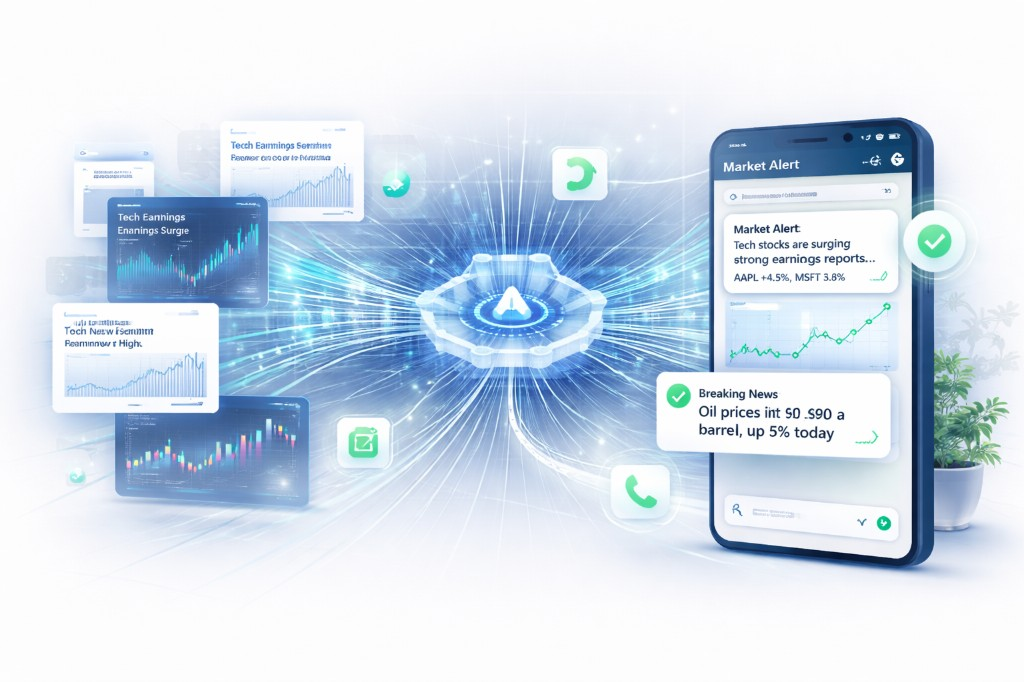
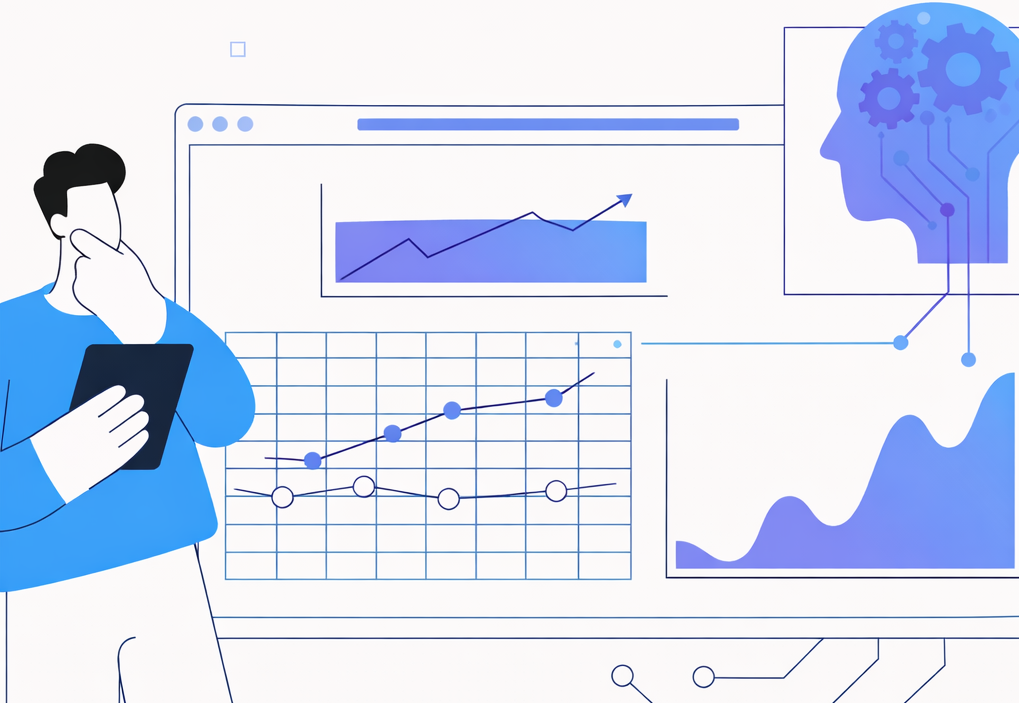
case studies minor changes

diff --git a/industries.html b/industries.html
@@ -319,6 +319,22 @@
             height: fit-content !important;
             padding: 0 !important;
         }
+
+        /* The updated AI Agents asset is square, so it needs to escape the
+           default 200px-tall case-study image slot used by landscape images. */
+        #ai-agents .case-study-image {
+            height: auto !important;
+            max-width: 520px !important;
+            overflow: visible !important;
+        }
+
+        #ai-agents .case-study-image img {
+            width: 100% !important;
+            max-width: 520px !important;
+            height: auto !important;
+            max-height: 520px !important;
+            object-fit: contain !important;
+        }
         
         .case-study-details {
             display: none;
@@ -461,7 +477,7 @@
                         <!-- Collapsed View -->
                         <div class="card-collapsed">
                             <div class="case-study-header">
-                                <h3 class="case-study-title" style="background: var(--gradient-primary); -webkit-background-clip: text; -webkit-text-fill-color: transparent; background-clip: text; text-align: center;">Optimization Frameworks with Artificial Neural Networks</h3>
+                                <h3 class="case-study-title" style="background: var(--gradient-primary); -webkit-background-clip: text; -webkit-text-fill-color: transparent; background-clip: text; text-align: center;">Molecular Optimization with AI</h3>
                             </div>
                             
                             <div class="case-study-image">
